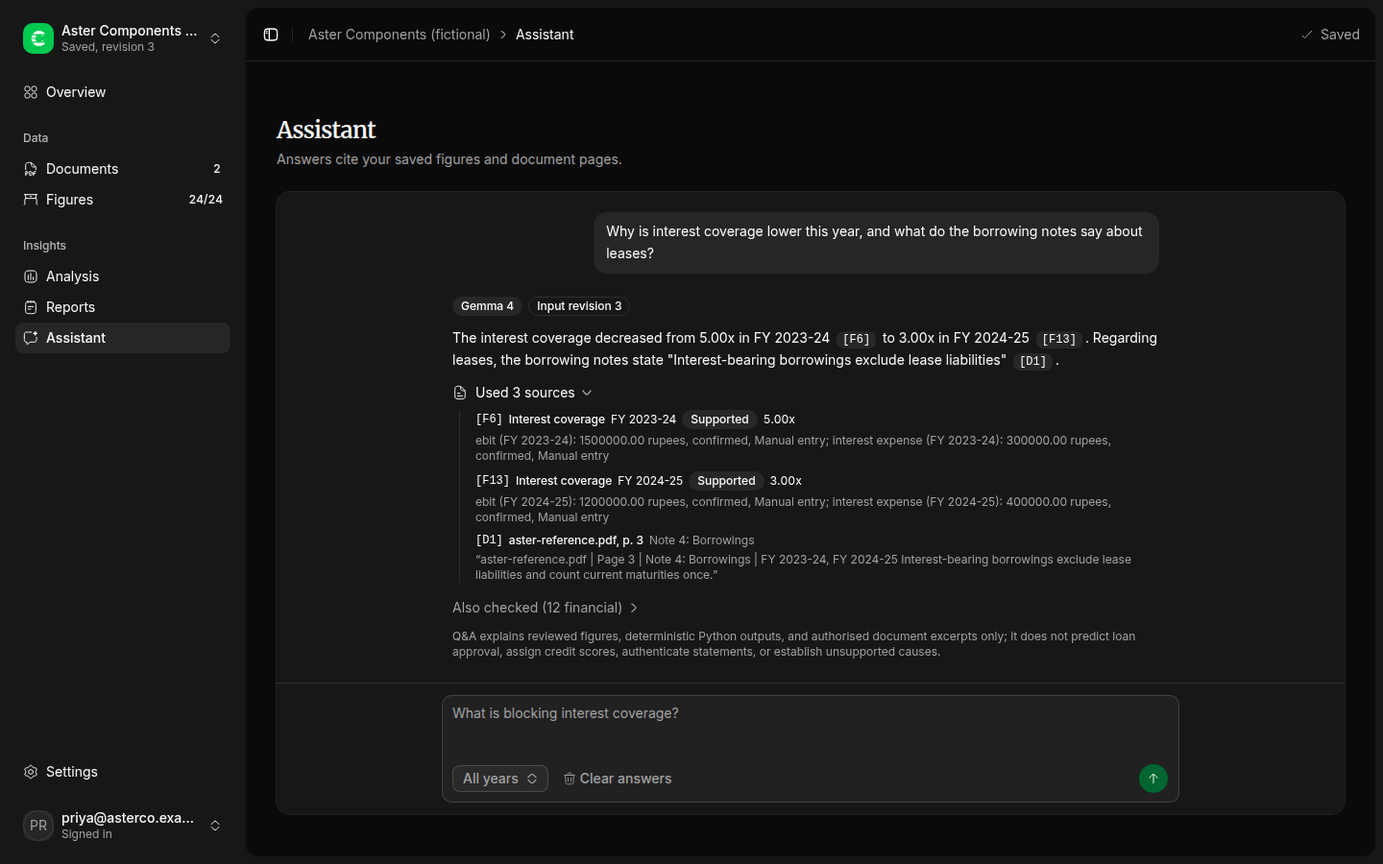
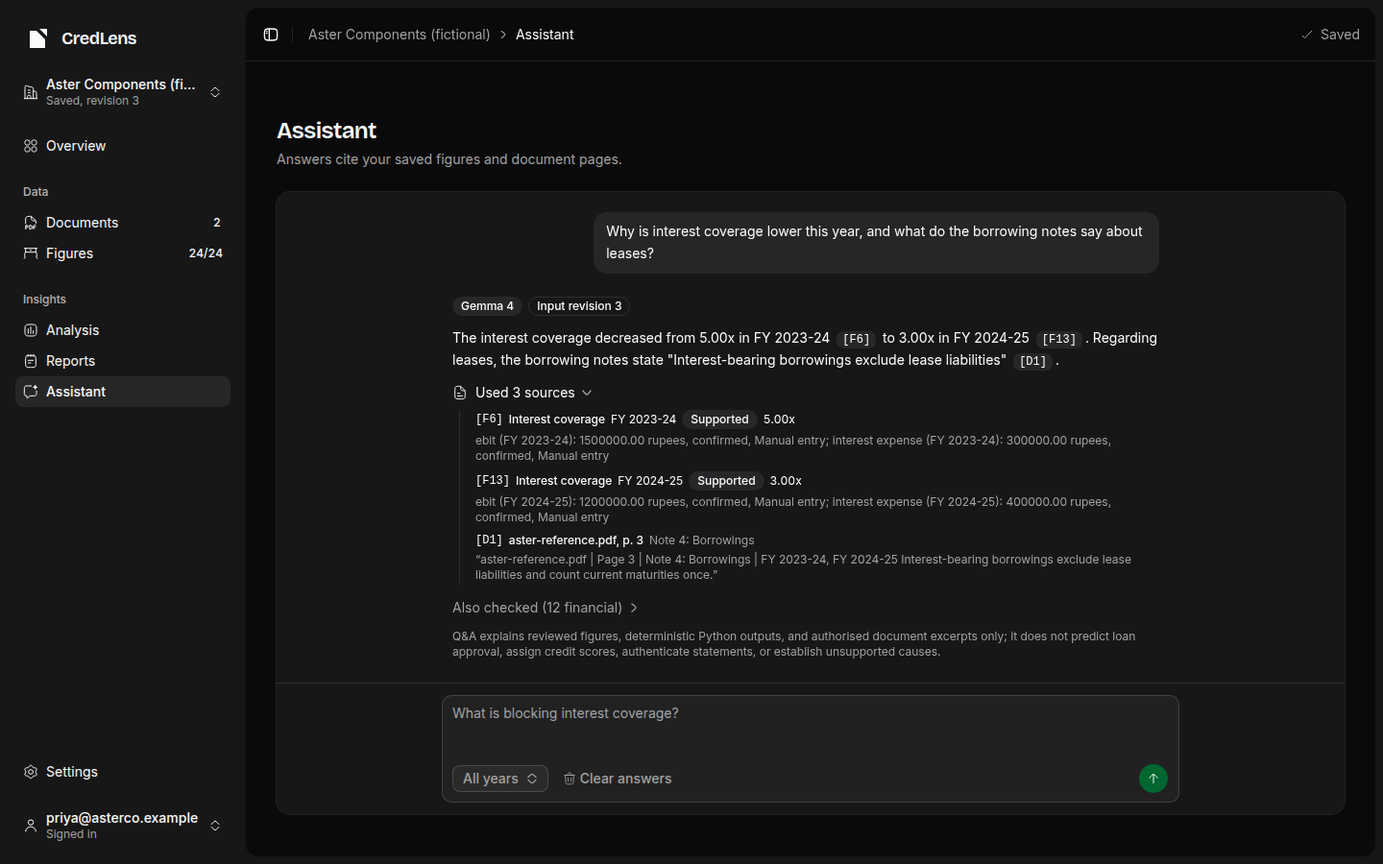
Rewrite the README and fix the collapsed sidebar
Business and account rows now centre their icon in the collapsed rail instead of showing cropped text, and the README screenshots show the current brand.

diff --git a/src/features/workspace/WorkspaceSwitcher.tsx b/src/features/workspace/WorkspaceSwitcher.tsx
@@ -37,7 +37,7 @@ function WorkspaceSwitcher() {
       <SidebarMenu>
         <SidebarMenuItem>
           <SidebarMenuButton size="lg" render={<div />} className="hover:bg-transparent active:bg-transparent">
-            <HugeiconsIcon icon={Building03Icon} />
+            <span className="flex size-8 shrink-0 items-center justify-center"><HugeiconsIcon icon={Building03Icon} /></span>
             <span className="grid min-w-0 flex-1 text-left leading-tight">
               <span className="truncate font-medium">{name}</span>
               <span className="truncate text-xs text-muted-foreground">Demo, not saved</span>
@@ -57,7 +57,7 @@ function WorkspaceSwitcher() {
             disabled={actionsDisabled}
             render={<SidebarMenuButton size="lg" className="data-popup-open:bg-sidebar-accent" />}
           >
-            <HugeiconsIcon icon={Building03Icon} />
+            <span className="flex size-8 shrink-0 items-center justify-center"><HugeiconsIcon icon={Building03Icon} /></span>
             <span className="grid min-w-0 flex-1 text-left leading-tight">
               <span className="truncate font-medium">{name}</span>
               <span className="truncate text-xs text-muted-foreground">

diff --git a/src/features/workspace/AccountMenu.tsx b/src/features/workspace/AccountMenu.tsx
@@ -36,7 +36,7 @@ function AccountMenu() {
             disabled={actionsDisabled}
             render={<SidebarMenuButton size="lg" className="data-popup-open:bg-sidebar-accent" />}
           >
-            <HugeiconsIcon icon={UserIcon} />
+            <span className="flex size-8 shrink-0 items-center justify-center"><HugeiconsIcon icon={UserIcon} /></span>
             {identity}
             <HugeiconsIcon icon={UnfoldMoreIcon} className="ml-auto" />
           </DropdownMenuTrigger>

diff --git a/README.md b/README.md
@@ -1,195 +1,91 @@
-# CredLens
+<p align="center">
+  <img src="public/og.png" alt="CredLens logo and wordmark with the tagline Know what your figures support." width="720" />
+  <br /><br />
+  Financial-health checks for small manufacturing businesses in India before talking to an accountant or lender.
+  <br />
+  <a href="https://credlens.sahil.lol"><strong>credlens.sahil.lol</strong></a>
+</p>
 
-CredLens is a financial-health and financing-readiness assistant for small manufacturing businesses with existing standalone financial statements (INR, April–March financial years, one to three completed periods). It connects **evidence to action**: every financial finding shows its reviewed inputs and origin (PDF page or manual entry), deterministic Python calculation (`financial-rules-v1`), explicit evidence state, and targeted preparation next step.
+## What it does
 
-## Core capabilities
-
-- **Product interface (`src/app/`, `src/features/`):** a full-page sign-in with account creation and **Continue as guest** (the fictional company in the browser, analysed, nothing saved), then a shadcn `base-nova` dashboard: business switcher, Overview, Documents, Figures, Analysis, Reports, Assistant and Settings on TanStack Router URLs, an account menu with Light/Dark/System theme, a breadcrumb header with save state, and Sonner toasts. Pages keep their state while you move between them.
-- **Deterministic financial analysis (`backend/app/analysis.py`):** Exact Python `Decimal` (precision `34`, `ROUND_HALF_UP` display only) across six indicators — revenue growth, net profit margin, working capital, current ratio, debt-to-equity (excluding leases, counting current maturities once), and interest coverage (EBIT, never EBITDA) — plus balance-sheet consistency checks (`0.015 × unit_multiplier` INR rounding tolerance) and workflow-ordered preparation actions (`preparation-actions-v1`).
-- **Four distinct evidence states:** `Supported`, `Needs review`, `Not assessed`, and `Not meaningful`, evaluated independently per indicator so missing or unreviewed inputs block only dependent calculations without turning missing data into an adverse credit judgement.
-- **Owner-protected workspaces & revision history (`backend/app/auth.py`, `backend/app/persistence.py`):** Local FastAPI-managed accounts (`hashlib.scrypt` password hashing, SHA-256 hashed 7-day `HttpOnly` `SameSite=Lax` session cookies), optimistic concurrency (`PUT /api/businesses/{id}` with `expected_revision` / HTTP `409`), monotonic per-figure revisions, immutable `revisions` snapshots, and automatic supersession of outdated runs.
-- **Bounded digital-PDF upload, candidate extraction & page-linked source review (`backend/app/documents.py`, `backend/app/pdf_worker.py`, `backend/app/pdf_extraction.py`, `src/features/documents/SourceReview.tsx`):**
-  - Enforces 20 MB / 50-page limits, single active processing job per owner (PostgreSQL advisory lock + partial unique index), isolated local parser budgets (`15 s` wall / `10 s` CPU / `512 MiB` memory), encrypted/corrupted/scanned-only rejection, and interrupted-job reconciliation & retry.
-  - Extracts unreviewed candidates (`document-extraction-v2`) for supported digital table layouts with exact page/table/row/column provenance; server verifies every `origin="document"` figure against owned ready snapshots; manual edits or year/unit changes convert figures to `origin="manual"`; deleting a PDF retains detached historical provenance (`Source PDF removed`).
-- **Retrieval and evidence-grounded assistant (`backend/app/retrieval.py`, `backend/app/qa.py`, `backend/app/llm.py`, `worker/`, `src/features/qa/WorkspaceQA.tsx`):**
-  - Period/page-aware chunks (`<= 220` WordPiece tokens), local CPU `sentence-transformers/all-MiniLM-L6-v2` embeddings (`384d`, `HF_HUB_OFFLINE=1`), and PostgreSQL `pgvector` cosine retrieval filtered strictly by `(owner_id, business_id, documents.status = 'ready')` before ranking.
-  - Answers from Google Gemma 4 (`@cf/google/gemma-4-26b-a4b-it`) on Cloudflare Workers AI through a small token-protected Worker. FastAPI keeps `<untrusted_document_passage>` escaping, server-verified `[F#]`/`[D#]` citations and lending/scoring/read-only guardrails, falls back to a deterministic template when the Worker is unavailable, and streams only checked answers to an AI SDK `useChat` thread built from shadcn Message, Message Scroller, Bubble and Trace.
-- **Printable versioned preparation reports (`backend/app/reports.py`, `src/features/reports/PreparationReport.tsx`):** Native browser `@media print` reports backed by immutable `analysis_runs` snapshots with `CURRENT VERSION` vs. `SUPERSEDED` banners, missing-evidence tables, ordered actions, referenced documents, and limitations.
-- **Active-data deletion & minimal audit log (`backend/app/documents.py`, `backend/app/audit.py`):** Staged workspace deletion (`DELETE /api/businesses/{id}`) removes local `.pdf`/`.tmp` files and cascades across all workspace/figure/revision/run/document/chunk tables while recording a minimal scalar-only `audit_events` entry (`GET /api/audit-events`, zero financial payloads) and disclosing database backup-retention limits.
+- Accepts digital statement PDFs (balance sheet and profit and loss, up to 20 MB and 50 pages) or manual entry in a spreadsheet-style grid.
+- Lets you check every extracted figure against its source PDF page before confirming it.
+- Computes six indicators (revenue growth, net profit margin, working capital, current ratio, debt-to-equity, and interest coverage) plus a balance-sheet consistency check using deterministic Python `Decimal` arithmetic.
+- Assigns each finding one of four evidence states (`Supported`, `Needs review`, `Not assessed`, or `Not meaningful`) so missing data blocks only the indicator that needs it.
+- Generates a printable preparation report from saved analysis runs.
+- Answers questions using Gemma 4 (`@cf/google/gemma-4-26b-a4b-it`) on Cloudflare Workers AI behind `worker/`. The backend verifies every figure and PDF page citation and falls back to a template answer when the model is unavailable. The assistant refuses loan-approval predictions, credit scores, authenticity claims, and forecasts.
 
 ## Screenshots
 
-Fictional Aster Components data, captured from Vite with mocked API responses; the assistant answer is a recorded Gemma 4 reply for the same fictional data.
+Captured using fictional Aster Components data.
 
-| Sign in (light) | Overview (dark) |
-| --- | --- |
-| ![Full-page sign-in with Continue as guest](docs/screenshots/sign-in-light.png) | ![Overview with indicator cards, charts and next steps](docs/screenshots/overview-dark.png) |
-| **Figures (light)** | **Documents (dark)** |
-| ![Year-by-figure entry grid](docs/screenshots/figures-light.png) | ![Statement PDFs table with upload and row actions](docs/screenshots/documents-dark.png) |
-| **Analysis (light)** | **Assistant (dark)** |
-| ![Indicator-by-year analysis table and preparation actions](docs/screenshots/analysis-light.png) | ![Assistant thread with inline citations and sources](docs/screenshots/assistant-dark.png) |
+![CredLens overview showing six supported financial indicators with revenue and net profit margin charts in dark mode](docs/screenshots/overview-dark.png)
 
-## Reproducible local setup (clean clone)
+| Analysis                                                                                                                 | Assistant                                                                                                      |
+| ------------------------------------------------------------------------------------------------------------------------ | -------------------------------------------------------------------------------------------------------------- |
+| ![Indicator-by-year analysis table with formulas and evidence states in light mode](docs/screenshots/analysis-light.png) | ![Assistant reply with inline figure and PDF page citations in dark mode](docs/screenshots/assistant-dark.png) |
 
-### Prerequisites
+## Try it
 
-- **Node.js / Bun:** Bun `1.4+` (preserves `bun.lock`)
-- **Python:** Python `3.12+` with `venv` and `pip`. On Debian-based systems, install the matching `venv` package if Python reports that `ensurepip` is unavailable.
-- **PostgreSQL 16+ with `pgvector` (`vector` extension):** any PostgreSQL you can reach (`DATABASE_URL` and direct `DATABASE_URL_UNPOOLED`); production runs it in Docker Compose
-- **Cloudflare account (optional; without it the assistant uses template answers):** Workers AI's free allocation is 10,000 neurons a day. `wrangler` is a pinned dev dependency.
+Visit [credlens.sahil.lol](https://credlens.sahil.lol) and create an account with a password of 12 to 128 characters. There are no preset logins. You can also select **Continue as guest** for a browser-only demo loaded with the fictional Aster Components company where nothing is saved.
 
-### 1. Configure database environment
+To try PDF extraction, upload `backend/tests/fixtures/pdf_corpus/aster-reference.pdf` first. All 24 figures extract automatically. Additional fictional statements are in `backend/tests/fixtures/eval_pack/`.
 
-Create `.env.local` in the repository root using [.env.example](.env.example) and the [backend setup notes](backend/README.md).
+## Run locally
+
+Copy `.env.example` to `.env.local`. Set `DATABASE_URL` and `DATABASE_URL_UNPOOLED` to a PostgreSQL 16+ database with the `vector` extension. Set `CREDLENS_AI_URL` and `CREDLENS_AI_TOKEN` for the assistant Worker, or set `CREDLENS_AI_DISABLED=1` for template-only answers.
 
 ```bash
-DATABASE_URL="postgresql://<user>:<password>@<host>/<db>?sslmode=require"
-DATABASE_URL_UNPOOLED="postgresql://<user>:<password>@<direct-host>/<db>?sslmode=require"
-```
-
-### 2. Install backend dependencies and run migrations
-
-```bash
+# Backend setup, one-time embedding cache, and API server
 cd backend
 python3 -m venv .venv
 .venv/bin/pip install -r requirements.txt
 .venv/bin/alembic upgrade head
 cd ..
-```
 
-*(On Windows PowerShell, replace `.venv/bin/` with `.venv\Scripts\`.)*
-
-### 3. Cache the embedding model and deploy the assistant Worker
-
-```bash
-# Cache sentence-transformers/all-MiniLM-L6-v2 once (~91 MB, CPU, Apache-2.0); retrieval then runs offline.
 backend/.venv/bin/python -c 'from sentence_transformers import SentenceTransformer; SentenceTransformer("sentence-transformers/all-MiniLM-L6-v2", device="cpu")'
 
-# Deploy the Workers AI proxy and give it a random token (prompted, not echoed).
-bun install --frozen-lockfile
-bunx wrangler login
-bun run worker:deploy
-bunx wrangler secret put CREDLENS_AI_TOKEN -c worker/wrangler.jsonc
-```
-
-Add the Worker URL and the same token to `.env.local` (see [.env.example](.env.example)):
-
-```bash
-CREDLENS_AI_URL="https://credlens-ai.<your-subdomain>.workers.dev/v1/answer"
-CREDLENS_AI_TOKEN="<the token you set above>"
-```
-
-Prompts carry the saved findings and authorised passages for one question; they leave your machine for Cloudflare. Leave the two variables unset (or set `CREDLENS_AI_DISABLED=1`) to keep everything local with template answers. For local Worker development, `bun run worker:dev` serves `http://127.0.0.1:8787/v1/answer` with a token from `worker/.dev.vars`.
-
-### 4. Install frontend dependencies and start all local services
-
-Run in separate terminals from the repository root:
-
-```bash
-# Terminal 1 — FastAPI backend
 cd backend
 .venv/bin/python -m uvicorn app.main:app --host 127.0.0.1 --port 8000
 ```
 
 ```bash
-# Terminal 2 — Vite frontend (proxies /api -> http://127.0.0.1:8000)
+# Frontend dev server in a second terminal (proxies /api to port 8000)
+bun install
 bun run dev
+
+# Checks
+bun test
+bun run lint
+bun run build
+cd backend && .venv/bin/python -m pytest -q
 ```
 
-Open the URL Vite prints (typically `http://127.0.0.1:5173`). You land on the sign-in page; **Continue as guest** needs only the backend's stateless analysis endpoint.
+## Deploy
 
-If Vite prints `EMFILE: too many open files, watch …`, your user has run out of inotify instances (Ubuntu's default is 128 and browsers use many). Raise the limit once:
+Production runs as one Docker Compose stack on Coolify using `docker-compose.yml`, behind Cloudflare and Traefik. The `app` service uses the root `Dockerfile` to build the SPA with Bun and serve both the app and `/api` from FastAPI on port 8000. The `db` service runs `pgvector/pgvector:0.8.7-pg17`. Set `CREDLENS_AI_URL` and `CREDLENS_AI_TOKEN` in Coolify. Coolify generates the database credentials, and pushing to `main` redeploys automatically.
 
-```bash
-echo fs.inotify.max_user_instances=1024 | sudo tee /etc/sysctl.d/60-inotify.conf && sudo sysctl --system
-```
+## Stack
 
-Without `sudo`, `CHOKIDAR_USEPOLLING=1 bun run dev` makes the watcher poll instead.
+- Frontend uses React 19, TypeScript, Vite, Tailwind CSS 4, shadcn/ui (Base UI), and Bun.
+- Backend uses FastAPI, SQLAlchemy, Alembic, Python 3.14, and PostgreSQL 17 with pgvector.
+- Extraction and AI use pdfplumber, local MiniLM (`sentence-transformers/all-MiniLM-L6-v2`) embeddings, and Gemma 4 on Cloudflare Workers AI.
 
-## Production deployment (Coolify)
+## Limitations
 
-`docker-compose.yml` runs the whole app as one Coolify resource (Docker Compose build pack), live at https://credlens.sahil.lol behind Cloudflare (proxied) and the server's Traefik, which holds the Cloudflare origin certificate:
+- CredLens is not a lender decision or audit tool. It does not predict loan approval or eligibility, calculate credit or default scores, match lenders, forecast performance, or authenticate statements.
+- The owner must review and confirm every extracted or entered figure. CredLens checks arithmetic and balance-sheet consistency rather than accounting accuracy.
+- Scanned or image-only PDFs are not supported, and unsupported table layouts fall back to manual entry.
+- Bank, GST, and credit-bureau connections, multiple currencies, and consolidated groups are out of scope.
+- Financial rules remain provisional until an external finance reviewer validates them.
+- Assistant questions send the current findings and authorised document excerpts to Cloudflare Workers AI unless `CREDLENS_AI_DISABLED=1` is set.
 
-| Service | Image | Reachable from |
-| --- | --- | --- |
-| `app` | root `Dockerfile`: Bun 1.4.4 builds the Vite app; Python 3.14.8 runs FastAPI, which serves the SPA (`backend/app/frontend.py`) and `/api` on port 8000, runs `alembic upgrade head` on start and has MiniLM baked in | the internet, via Cloudflare → Traefik |
-| `db` | `pgvector/pgvector:0.8.7-pg17`, data in the `pgdata` volume | `app` only, on the stack's private network |
+## Documentation
 
-Uploaded PDFs live in the `documents` volume. One origin serves page and API, so session cookies stay `HttpOnly`, `SameSite=Lax` and `Secure`, with no CORS. Coolify generates the database user and password (`SERVICE_USER_POSTGRES`, `SERVICE_PASSWORD_POSTGRES`, runtime-only). Set `CREDLENS_AI_URL` and `CREDLENS_AI_TOKEN` (runtime-only) under the resource's environment variables; the deployment refuses to start without them. A GitHub push webhook redeploys `main` automatically.
+- [Project spec](docs/PROJECT_SPEC.md)
+- [Financial contract](docs/FINANCIAL_CONTRACT.md)
+- [Backend API and limits](backend/README.md)
+- [Evaluation results](docs/EVALUATION_RESULTS.md)
+- [Repository engineering rules](AGENTS.md)
 
-### Trying it
-
-There are no preset accounts: choose **Create an account** on the sign-in page (any email, password of 12 to 128 characters), or **Continue as guest** for the browser-only demo. Fictional statement PDFs to upload are in the repository:
-
-- `backend/tests/fixtures/pdf_corpus/aster-reference.pdf`: the reference case; every figure extracts (24 candidates)
-- `backend/tests/fixtures/eval_pack/aster-eval.pdf`, `kaveri-precision.pdf`, `deccan-polymers.pdf`, `sahyadri-fasteners.pdf`: other fictional businesses and units (3-column tables fall back to manual entry)
-- the other files in `backend/tests/fixtures/pdf_corpus/` exercise problems on purpose (missing units, conflicting periods, duplicates)
-
-## Live demonstration walkthrough
-
-This sequence reproduces every item in the [Final demonstration checklist](docs/PROJECT_SPEC.md#final-demonstration-checklist) using the included fictional Aster Components PDFs (`backend/tests/fixtures/pdf_corpus/aster-reference.pdf`):
-
-Switch or delete businesses from the business menu at the top of the sidebar, sign out from the account menu at the bottom, and save from the header.
-
-1. **Create account & business:** On the sign-in page choose **Create an account**. On **Figures**, enter `Aster Components (fictional)` as the business name and click **Save** in the header.
-2. **Upload PDF & inspect source:** On **Documents**, click **Upload PDF** and choose `backend/tests/fixtures/pdf_corpus/aster-reference.pdf`, click **Review extracted figures**, inspect a source cell (`Inspect p. 2`), and click **Apply all usable candidates (24)**. On **Figures**, toggle comparability for FY 2024-25 and click **Confirm present figures**. On **Analysis**, click **Analyse figures**: net profit margin moves from `9.00%` (FY 2023-24) to `5.00%` (FY 2024-25) with `Document: aster-reference.pdf · p. 1` citations and `financial-rules-v1`.
-3. **Correct one extracted value at its source:** Edit FY 2024-25 `Interest expense` from `400000.00` to `300000.00`; the figure converts to `Manual` (unreviewed). Confirm and re-analyse: interest coverage moves from `3.00x` to `4.00x` and the earlier run is marked superseded.
-4. **Selective missing-input blocking:** Clear FY 2024-25 `Interest expense`, save, and re-analyse: `Interest coverage` shows `Not assessed` and asks for interest expense while the five unrelated indicators stay `Supported`.
-5. **Versioned printable report & supersession:** On **Reports**, open the report marked `CURRENT VERSION`. Restore and confirm FY 2024-25 interest expense, analyse again and generate a refreshed report. Open the earlier one to see `SUPERSEDED`. Print either with **Print / Save as PDF**.
-6. **Assistant & refusals:** On **Assistant**, ask *"What do the borrowing notes say about leases?"* (cites `[D#]` page 3; open **Used N sources** for the page link) and *"Will a bank approve my INR 50 lakh loan?"* (refuses without inventing approval odds or credit scores). Unset `CREDLENS_AI_URL` and restart the backend to see the template fallback.
-7. **Cross-business isolation & active-data deletion:** A second account gets HTTP `404` on the first account's business, document and report IDs. Choose **Delete business** in the business menu (or **Settings → Danger zone**), confirm the backup-retention disclosure, and check **Settings → Activity** for the `workspace_deleted` entry.
-
-## Verification and evaluation commands
-
-| Check | Command |
-| --- | --- |
-| Backend offline suite (`208` pass / `37` live skips) | `cd backend && .venv/bin/python -m pytest -q` |
-| Backend dependency integrity | `cd backend && .venv/bin/pip check` |
-| Schema consistency check | `cd backend && .venv/bin/alembic check` |
-| Live database tests (use a **disposable** database only; add `RUN_LIVE_MODEL_TESTS=1` to call the Worker) | `cd backend && PERSISTENCE_TEST_URL="<direct-disposable-url>" .venv/bin/python -m pytest -q` |
-| Frontend unit & Python-integration tests (`47` pass) | `bun test` |
-| Headless browser UI checks (`71` checks) | `bun tests/run-workspace-ui.ts /path/to/chromium-or-chrome` |
-| Frontend lint & production build | `bun x oxlint src/ tests/ && bun run build` |
-| Worker type check | `bunx tsc -p worker` |
-| Reproduce frozen P5-03 evaluation pack hashes | `backend/.venv/bin/python backend/tests/build_eval_pack.py` |
-| Re-run P5-04 A/B/C ablation (calls the configured Worker 180 times) | `backend/.venv/bin/python backend/tests/run_p504_evaluation.py --output /tmp/credlens-evaluation.json` |
-
-*Cached/recorded output notice:* [docs/eval_p504_results.json](docs/eval_p504_results.json) and [docs/EVALUATION_RESULTS.md](docs/EVALUATION_RESULTS.md) record the frozen `2026-11-21` P5-04 evaluation run, made with the earlier local Ollama `qwen3:4b-instruct` model (180 calls + separate raw PDF extraction across 4 evaluation PDFs and 1 held-out Layout C PDF). On the 60-question benchmark, Full CredLens (Variant C) achieved **`44/60` (`73.33%`)** strict automated pass / **`54/60` (`90.00%`)** proxy-audited useful coverage (`12/12` numerical, `21/24` blocked analyses, `0/48` false refusals) versus Basic RAG **`18/60` (`30.00%`)** and RAG + naive calculations **`32/60` (`53.33%`)**.
-
-The Phase 5 closeout reran the same frozen questions with a stricter check for expected page citations. Full CredLens passed 60/60, including 24/24 blocked findings and 12/12 refusal cases. These are regression results on the known fixtures. Use a new output path for each rerun to preserve the recorded results. [Closeout measurements](docs/eval_p504_closeout_results.json)
-
-## Frozen dependency and model versions
-
-| Layer | Component | Pinned version / digest | License |
-| --- | --- | --- | --- |
-| Frontend | React / Vite / TypeScript / Tailwind CSS | `19.3.1` / `8.3.6` / `~7.0.2` / `4.3.5` (`bun.lock`) | MIT / Apache-2.0 |
-| Frontend UI | `@base-ui/react` / `shadcn` (`base-nova`) / Hugeicons | `1.9.0` / `4.23.0` / `1.1.10` | MIT |
-| Frontend AI | `ai` / `@ai-sdk/react` / `@shadcn/react` (Message Scroller) | `7.0.177` / `4.0.181` / `0.3.1` | Apache-2.0 / MIT |
-| Frontend routing & charts | `@tanstack/react-router` / dither-kit (vendored in `src/components/dither-kit/`) / `motion` / `d3-scale` / `d3-shape` | `1.170.46` / registry snapshot 2026-11-25 / `14.14.0` / `4.0.3` / `3.2.1` | MIT / ISC |
-| Backend API | FastAPI / Pydantic / Uvicorn / SQLAlchemy / Alembic / Psycopg | `0.162.2` / `2.14.3` / `0.54.0` / `2.1.8` / `1.20.1` / `3.3.9` | MIT / LGPL / BSD |
-| PDF & Vector | `pdfplumber` / `pgvector` (Python) / PostgreSQL `vector` | `0.11.10` / `0.5.1` / `0.8.7` | MIT / PostgreSQL |
-| Local embeddings | `sentence-transformers` / `torch` (CPU) / `all-MiniLM-L6-v2` | `6.3.0` / `2.15.0+cpu` / rev `1110a243fdf4` (`384d`, `256` tok) | Apache-2.0 / BSD |
-| Assistant model | Cloudflare Workers AI `@cf/google/gemma-4-26b-a4b-it` via `worker/` (`temperature 0`, `seed 42`, thinking off, 1,024 output tokens) / `wrangler` | Worker compatibility date `2026-11-18` / `4.165.0` | Gemma terms / MIT OR Apache-2.0 |
-
-Full transitive pins live in [backend/requirements.txt](backend/requirements.txt) and [bun.lock](bun.lock).
-
-## Known limitations and out-of-scope boundaries
-
-- **Not a lending decision or audit tool:** CredLens does not predict loan approval or eligibility, compute credit/default scores, match lenders, connect to bank/GST/bureau APIs, forecast future performance, or authenticate financial statements.
-- **Provisional financial rules (`D-02`):** Formula definitions and sample findings remain provisional pending external licensed finance-reviewer validation.
-- **Evaluation pack scope (`D-05`):** The frozen `eval-pack-v1` benchmark covers four fictional manufacturing businesses and one held-out Layout C business. The HUL standalone excerpts remain deferred. The closeout used agent review of fictional records. External business-owner usability and finance review remain open.
-- **Limited PDF layout support:** `pdf-extraction-v2` targets 1–2 annual amount-column digital tables with explicit standalone/unit/period headings; 3-column tables, unseen layouts (e.g. held-out Layout C), and scanned/image-only PDFs fall back safely to manual entry (`0` wrong matches in P5-04).
-- **Assistant coverage:** The frozen 60-question results were measured with the earlier local `qwen3:4b-instruct` model. Gemma 4 on Workers AI passed the live end-to-end checks but has not been rerun on the 60-question set. Assistant prompts are processed by Cloudflare, not locally. [Evaluation results](docs/EVALUATION_RESULTS.md)
-- **Backup & deployment boundaries:** Deleting a workspace removes active local files and database records immediately, but cannot erase managed PostgreSQL point-in-time recovery backups before provider retention expiry. Local development uses HTTP on loopback; require HTTPS before any non-local pilot.
-
-## Project documentation
-
-- [docs/PROJECT_SPEC.md](docs/PROJECT_SPEC.md) — Living phased spec, verified baseline, decisions, and full task log
-- [docs/FINANCIAL_CONTRACT.md](docs/FINANCIAL_CONTRACT.md) — Confirmed financial rules, signs, rounding, tolerance, and evidence-state precedence
-- [docs/PERSISTENCE_PLAN.md](docs/PERSISTENCE_PLAN.md) — PostgreSQL schema, auth/session policy, revisions, documents, retrieval, and audit log
-- [docs/EXTRACTION_PLAN.md](docs/EXTRACTION_PLAN.md) — Digital-PDF extraction scope, corpus integrity, and v1/v2 measurements
-- [docs/LOCAL_MODEL_TRIAL.md](docs/LOCAL_MODEL_TRIAL.md) — Host hardware measurements, offline model settings, and fallback policy
-- [docs/EVALUATION_RESULTS.md](docs/EVALUATION_RESULTS.md) — P5-04 separate extraction results, A/B/C 60-question ablation, and failure analysis
-- [docs/CONTRIBUTION_LOG.md](docs/CONTRIBUTION_LOG.md) — Repository commit and milestone contribution log
-- [backend/README.md](backend/README.md) — Backend API routes, limits, and database notes
-- [AGENTS.md](AGENTS.md) — Repository engineering rules (with [Ponytail MIT license](docs/third-party/ponytail-LICENSE.txt))
+Third-party notices are in [docs/third-party/](docs/third-party/).
